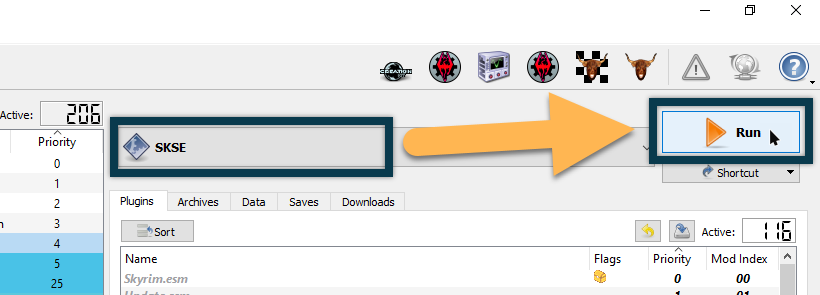
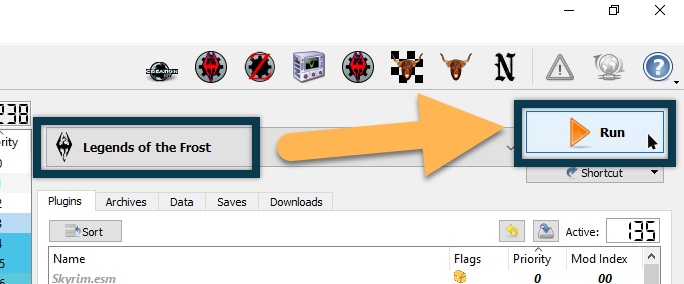
LOTF 2.0 WIP 2

diff --git a/content/lotf/customisation/_index.md b/content/lotf/customisation/_index.md
@@ -50,29 +50,97 @@ If you want to access the Creation Club through the main menu, do the following:
 - In **Mod Organizer 2**, expand the **INTERFACE** separator.
 - Uncheck the mod **ReCleaned Menu**.
 
-## Change sprinting from toggle to hold
+## Gameplay Adjustments
+
+### Change sprinting from toggle to hold
 
 If you want to be able to hold the Sprint key to sprint instead of press it once to toggle, do this:
 
 - In **Mod Organizer 2**, expand the **IMPROVED CONTROLS** separator.
 - Check the mod **Classic Sprinting Redone**.
 
-## Skip Lockpicking
+### Skip Lockpicking
 
 If you are tired of the lockpicking minigame, I included a mod to skip it. Interacting with a locked container will unlock it, but consume lockpicks based on the lock difficulty.
 
 - In **Mod Organizer 2**, expand the **SKSE & NET PLUGINS** separator.
 - Check the mod **No Lock Picking**.
 
-## Enable Barenziah Quest Markers
-
-Finding all 24 Stones of Barenziah during the [No Stone Unturned](https://en.uesp.net/wiki/Skyrim:No_Stone_Unturned) quest can be a bit of a slog. If you would prefer quest markers to show you exactly where the stones are located, turn on this option in the **SSoB** MCM:
-
-![SSoB MCM](/Pictures/lotf/lotf-ssob-mcm.jpg)
-
-## Increase combat difficulty
+### Increase combat difficulty
 
 If you find combat to be too easy, it is advisable to disable the Blade & Blunt vanilla damage modifiers plugin before increasing the difficulty through the game settings:
 
 - In **Mod Organizer 2**, expand the **GAMEPLAY** separator.
 - Uncheck the mod **Blade and Bunt - Vanilla Difficulty Modifiers**.
+
+### Enable Barenziah Quest Markers
+
+Finding all 24 Stones of Barenziah during the [No Stone Unturned](https://en.uesp.net/wiki/Skyrim:No_Stone_Unturned) quest can be a bit of a slog. If you would prefer quest markers to show you exactly where the stones are located, turn on this option in the **SSoB** MCM:
+
+![SSoB MCM](/Pictures/lotf/lotf-ssob-mcm.jpg)
+
+## Visual Adjustments
+
+### Swap to Obsidian Weathers
+
+By default, LOTF is running [Wander - A Weather Overhaul](https://www.nexusmods.com/skyrimspecialedition/mods/24439) with an older, tweaked version of [Yuevie's Minimal ENB](https://www.nexusmods.com/skyrimspecialedition/mods/37098). However, you can swap this out with the pre-installed [Obsidian Weathers and Seasons](https://www.nexusmods.com/skyrimspecialedition/mods/12125). If you are swapping to Obsidian Weathers it is also recommended to install The Truth ENB preset (see following section).
+
+> **Important:** If you are swapping mid-playthrough, you need to first force default weather through the console (type `fw 81a` and press Enter), then go into an interior cell. Save the game, close it. Disable Wander, Wander Less Intense Fogs, and AOS Wander Patch. Load your save and save again. Quit. Enable Obsidian Weathers and related mods. Load your save and resume your playthrough.
+
+- Double-click the **WEATHER & LIGHTING** separator to expand it.
+- Disable the Wander related mods and enable the Obsidian Weathers related mods:
+
+![Obsidian Weathers 1](/Pictures/lotf/customisation/obsidian-weathers-1.png)
+
+- Double-click the **SOUNDS & MUSIC** separator to expand it.
+- Disable the AOS Wander Patch and enable the AOS OBsidian Patch:
+
+![Obsidian Weathers 2](/Pictures/lotf/customisation/obsidian-weathers-2.png)
+
+- In the load order, position the new plugins as shown below:
+
+![Obsidian Weathers 3](/Pictures/lotf/customisation/obsidian-weathers-3.png)
+
+### Swap to The Truth ENB
+
+The Truth ENB is a fantastic preset that I initially wanted to install for LOTF. Unfortunately, the author believes the Nexus' TOS to be infringing upon mod authors' rights and decided to move the preset to the AFKMods website which does not have the server capacity to support Wabbajack. Thus, the preset needs to be downloaded manually by any user wishing to install it.
+
+I personally believe that the extra steps required for the Truth ENB are more than worth it as the preset looks amazing, especially with Obsidian Weathers (though it should look good with Wander as well).
+
+- Create an account on the [AFKMods](https://www.afkmods.com/) website.
+- Download the [Truth ENB](https://www.afkmods.com/index.php?/files/file/2241-the-truth-enb/) preset from the linked page.
+
+![Truth ENB 1](/Pictures/lotf/customisation/truth-enb-1.png)
+
+- Navigate to your root folder: `\Legends of the Frost\Stock Game\`.
+- Delete the **enbcache** and **enbseries** folders as well as the **enbseries.ini**.
+
+This will fully remove the previously installed ENB preset without removing ENB (d3d11.dll, d3dcompiler_46e.dll) or my customised ENB settings (enblocal.ini). If you decide to switch back at any point, you can find a backup of all LOTF preset and ENB files under `\Legends of the Frost\mods\LOTF Wander ENB (Backup)\`.
+
+- Open the downloaded The Truth ENB archive.
+- Extract the **enbseries** folder and **enbseries.ini** file into your Stock Game folder.
+
+![Truth ENB 2](/Pictures/lotf/customisation/truth-enb-2.png)
+
+I personally set `EnableRainWetSurfaces` to false in the preset (I do not like the effect at all). This can be done ingame through the UI or in the enbseries.ini in the Stock Game folder.
+
+Additionally, it is recommended to disable Skyrim's volumetric light (godrays) as the Truth preset has ENB godrays enabled by default. Refer to the picture below for instructions.
+
+> Note that INI tweaks are reset when updating LOTF.
+
+![Truth ENB 3](/Pictures/lotf/customisation/truth-enb-3.png)
+
+### Completely Remove ENB
+
+For those who really struggle with performance, disabling ENB altogether may provide a welcome performance boost although I would recommend trying the performance profile first. You can temporarily toggle off ENB ingame by pressing F12 to see the difference in visuals and performance (enable the FPS counter with F8 to check your framerate).
+
+If you really want to disable ENB, all you need to do is delete the **d3d11.dll** from `\Legends of the Frost\Stock Game\`.
+
+In addition, please also disable one mod depending on ENB complex particle lights:
+
+- In Mod Organizer 2, double-click the **WEATHER & LIGHTING** separator to expand it.
+- Disable the **Radiant - Candles** mod which would make candles look weird without ENB.
+
+You can also re-enable ambient occlusion to replace ENB ambient occlusion. The effect comes with a performance impact as well as a noticable visual improvement:
+
+![Enable SSE AO](/Pictures/lotf/customisation/enable-sse-ao.png)

diff --git a/content/lotf/changelog/_index.md b/content/lotf/changelog/_index.md
@@ -10,14 +10,35 @@ description: >
 
 > TBD
 
-#### Mod Changes
+**Features:**
 
+- Support for **Obsidian Weathers and Seasons** as an alternative to Wander.
+- Instructions for **swapping out** the ENB preset **or disabling ENB** altogether.
+- Inclusion of **Nemesis** as well as a stripped down XPMSSE and RaceMenu for **Simple Dual Sheath**.
+- Better water (**Realistic Water Two**), readable road signs (HD Road Signs), new grass overhaul (Enhanced Landscapes).
+- New **Creation Club profile** with support for Saints & Seducers, Rare Curios, The Cause, and Forgotten Seasons.
+- New **performance profile** with lighter INI settings and DynDOLOD setup (not compatible with CC profile).
+
+LOTF 2.0 utilizes the "Best of both worlds" downgrade patcher in order to be able to stay on SKSE 2.0.20 for SSE 1.5.97.0 (pre-AE). This is because not all of LOTF's SKSE-dependent mods (25/38) were updated yet. With the "best of both worlds" patcher all game files other than the executable are from the latest AE version though, meaning all assets for new creations are present and AE content can be used.
+
+**Removal of Immersive HUD:** Skyrim's UI is fairly unintrusive already, but the ability to disable the HUD still comes in handy for taking screenshots. iHUD unfortunately has some issues with the crosshair (it sometimes vanishes completely for me) so I decided to just replace it with Luca's version of fadingsignal's Hide UI. It completely disables the UI at the press of a button so it doesn't ruin a pretty screenshot.
+
+**HOW TO UPDATE**
+
+- Disable iHUD and DynDOLOD in the MCMs
+
+#### LOTF Changes
+
+- Added Spiders of Solstheim - Transparency Fix
+- Added HD Road Signs 2K
 - Added Weather of World
 - Added Realistic Water Two
 - Added Blacksmith Forge Water Fix - Realistic Water Two Patch
-- Added Cathedral Snow
-- Added HD Road Signs 2K
-- Added Security Overhaul SKSE - Add-ons
+- Added Flickering Meshes Fix
+- Added Shaders of Solstheim - Ash and Moss
+- Added Snowy Windhelm Bridge
+- Added Enhanced Landscapes - Grass Overhaul
+- Added Tempered Racial Textures
 - Added Nemesis Unlimited Behavior Engine
 - Added RaceMenu (only files required for XPMSSE)
 - Added XP32 Maximum Skeleton Special Extended
@@ -26,32 +47,78 @@ description: >
 - Added Simple Dual Sheath
 - Updated SSELODGen to Beta 85
 - Updated DynDOLOD to Alpha 56
+- Updated Cathedral Assets Optimizer to 5.3.8
 - Updated SSE Display Tweaks to 0.5.6b
 - Updated Weapons Armor Clothing and Clutter Fixes to 2.8
 - Updated DynDOLOD Resources to Alpha 16
-- Updated Assorted Mesh Fixes to 0.36
+- Updated Assorted Mesh Fixes to 0.39.2
 - Updated powerofthree's Tweaks to 1.4.1
 - Updated Spell Perk Item Distributor to 5.2
-- Updated Security Overhaul SKSE - Lock Variations to 2.0.1
+- Updated Charge Dialogue Fix to 1.3
+- Updated Simplicity of Snow to 0.5
+- Removed Dlizzio's Mesh Fixes - Assorted Mesh Fixes Patch (overwritten)
+- Removed Immersive HUD
+- Removed Immersive HUD - Settings Loader
+- Removed Immersive HUD - LOTF Preset
+- Removed Relighting Skyrim - No Player Homes
 - Removed Picta Series - Improved Sky Meshes
 - Removed Cathedral Water Overhaul (replaced by RW2)
 - Removed Volcanic Tundra - Heat Wave Effects (replaced by RW2)
+- Removed Skyrim Flora Overhaul - Grass Only (replaced by EL Grass)
+- Removed Security Overhaul SKSE - Lock Variations (out of scope for LOTF)
+- Removed cleaned master files
 - Installed XPMSSE version of Werewolf Claws Affect Spider Webs and moved it lower in the mod order
 - Moved Ambiance plugin lower in the load order
 - Moved Skyrim Realistic Overhaul BSAs below Project Clarity BSAs to overwrite
-- Incorporated RW2's recommended ENB water settings
-- Removed some arbitrary tweaks in the ENB grass section
-- Removed some arbitrary tweaks in the ENB particles section that made water in interiors at night unnaturally bright
+- Rebuilt most of the Project Clarity BSAs
+- Fixed load screen blocker (DynDOLOD load screens should no longer appear)
+- Hopefully (?) fixed two flickering lights in Honeyside (one remains)
+- Changed the ENB FPS display hotkey from F7 to F8
+- Reinstalled SkyHUD without the Immersive HUD patch
 - Reinstalled Majestic Mountains without the effect meshes
 - Installed zEdit in the Tools folder for the SLaWF Remove Crop Ownership script
 - Completely remove the crop ownership feature in Skyrim Landscape and Water Fixes
 - Re-enabled faction stealing in powerofthree's Tweaks
+- Added an icon to the SKSE executable (installation instructions were updated accordingly)
 - Resolved conflicts between new mods in the CRP
 - Generated Nemesis output
 - Regenerated terrain LOD with SSELODGen Beta 85
+- Regenerated tree and object LOD with DynDOLOD Beta 58
+
+#### LOTF Wander ENB Changes
+
+The preset is a tweaked version of Minimal ENB for Obsidian 1.1 (now Yuevie's Minimal ENB).
+
+- Incorporated RW2's recommended ENB water settings
+- Removed some arbitrary tweaks in the ENB grass section
+- Removed some arbitrary tweaks in the ENB particles section that made water in interiors at night unnaturally bright
+
+#### CC Profile Changes
+
+- Added new "Legends of the Frost - Creation Club Profile"
+- Added Cleaned and Upscaled Textures - Ayleid Assets
+- Added Creation Club - Saints and Seducers
+- Added Cleaned and Upscaled Textures - Saints and Seducers
+- Added Unofficial Creation Club Patches - Saints and Seducers
+- Added Realistic Water Two - Saints and Seducers Patch
+- Added Creation Club - Forgotten Seasons
+- Added Cleaned and Upscaled Textures - Forgotten Seasons
+- Added Unofficial Creation Club Patches - Forgotten Seasons
+- Added Creation Club - The Cause
+- Added Cleaned and Upscaled Textures - The Cause
+- Added Creation Club - Rare Curios
+- Added Cleaned and Upscaled Textures - Rare Curios
+- Added Unofficial Creation Club Patches - Rare Curios
+- Added Curated Curios - A Creation Club Integration Mod
+- Added The Cause - Rare Curios Patch
+- Added The Cause - Flawed Varla Stone Integration
 
 #### Website Changes
 
+- **Customisation:** Slightly shuffled the contents of this page around.
+- **Customisation:** Added Swap to Obsidian Weathers section.
+- **Customisation:** Added Swap to The Truth ENB section.
+- **Customisation:** Added Completely Removed ENB section
 - **Documentation:** Fixed a wrong link.
 
 ---

diff --git a/content/lotf/installation/_index.md b/content/lotf/installation/_index.md
@@ -94,13 +94,13 @@ If you only have a free Nexus account, Wabbajack will open the mod pages for you
 
 You can follow along as Wabbajack installs the list. It will display previews with summaries and links to the mods being installed. Don't let the log irritate you. Unless the installation is aborted completely, you don't have to worry about any warnings.
 
-**In case the installation does fail:** Try restarting Wabbajack first. You will not lose progress as the tool will pick up where it left of. Should the installation fail again, please join us on [Discord](https://discord.gg/xCPxJFbCTS), grab the `@LOTF` role, and post your `wabbajack.current.log` in the `#lotf-support` channel. You can find all Wabbajack logs in your Wabbajack installation folder under `\Wabbajack\logs\`.
+**In case the installation does fail:** Try restarting Wabbajack first. You will not lose progress as the tool will pick up where it left off. Should the installation fail again, please join us on [Discord](https://discord.gg/xCPxJFbCTS), grab the `@LOTF` role, and post your `wabbajack.current.log` in the `#lotf-support` channel. You can find all Wabbajack logs in your Wabbajack installation folder under `\Wabbajack\logs\`.
 
 In most cases the installation should complete successfully on the first try. The tool will let you know when it has.
 
 ## Playing LOTF
 
-Navigate to your **Legends of the Frost** folder and launch the **ModOrganizer.exe** within. In the top right drop-down menu **SKSE** should already be selected and you can now launch the game by clicking **Run**.
+Navigate to your **Legends of the Frost** folder and launch the **ModOrganizer.exe** within. In the top right drop-down menu, **Legends of the Frost** (a renamed skse64_loader.exe) should already be selected and you can now launch the game by clicking **Run**.
 
 > Legends of the Frost uses the **Stock Game Folder** system. There are no Game Folder Files to move manually.
 
@@ -108,7 +108,7 @@ Navigate to your **Legends of the Frost** folder and launch the **ModOrganizer.e
 
 ### MCM Instructions
 
-LOTF only has a handful of Mod Configuration Menus (MCMs). Presets are automatically applied for Immersive HUD and moreHUD so you don't need to edit anything manually. I strongly recommend not changing anything in the MCMs unless you have something specific in mind.
+LOTF only has a handful of Mod Configuration Menus (MCMs). Presets are automatically applied so you don't need to edit anything manually. I strongly recommend not changing anything in the MCMs unless you have something specific in mind.
 
 There are some small tweaks and optional mods in LOTF. Find out more on the [Customisation](/lotf/customisation) page.
 
@@ -116,7 +116,7 @@ There are some small tweaks and optional mods in LOTF. Find out more on the [Cus
 
 The hotkeys to toggle ENB on/off, open the GUI, or display the FPS meter are the same as in TPF and WTP:
 
-- **F7** toggles the FPS counter.
+- **F8** toggles the FPS counter.
 - **F10** toggles the ENB effect.
 - **F11** opens the ingame GUI.
 
